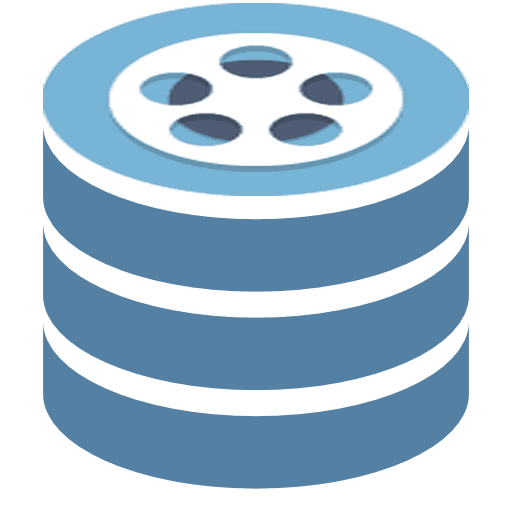
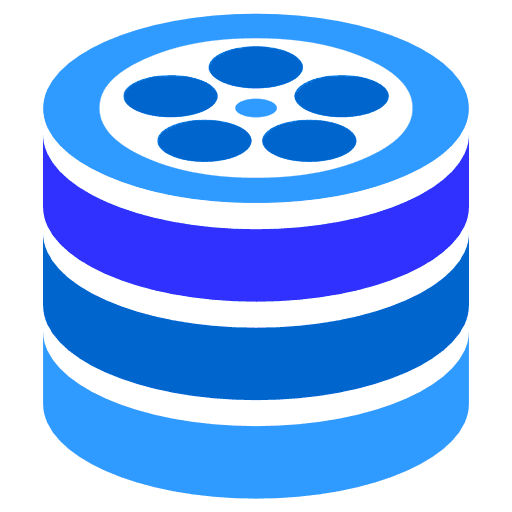
New images, change title_ru, add to log URL

diff --git a/routes/mobile.js b/routes/mobile.js
@@ -406,7 +406,7 @@ router.get('/:level1?/:level2?/:level3?/:level4?', function (req, res, next) {
     function renderData(err, render) {
 
         if (err) {
-            console.log('[routes/website.js] Error:', err);
+            console.log('[routes/website.js] Error:', url, err);
 
             return next({
                 "status": 404,

diff --git a/routes/website.js b/routes/website.js
@@ -423,7 +423,7 @@ router.get('/:level1?/:level2?/:level3?/:level4?', function (req, res, next) {
     function renderData(err, render) {
 
         if (err) {
-            console.log('[routes/website.js] Error:', err);
+            console.log('[routes/website.js] Error:', url, err);
 
             return next({
                 "status": 404,
